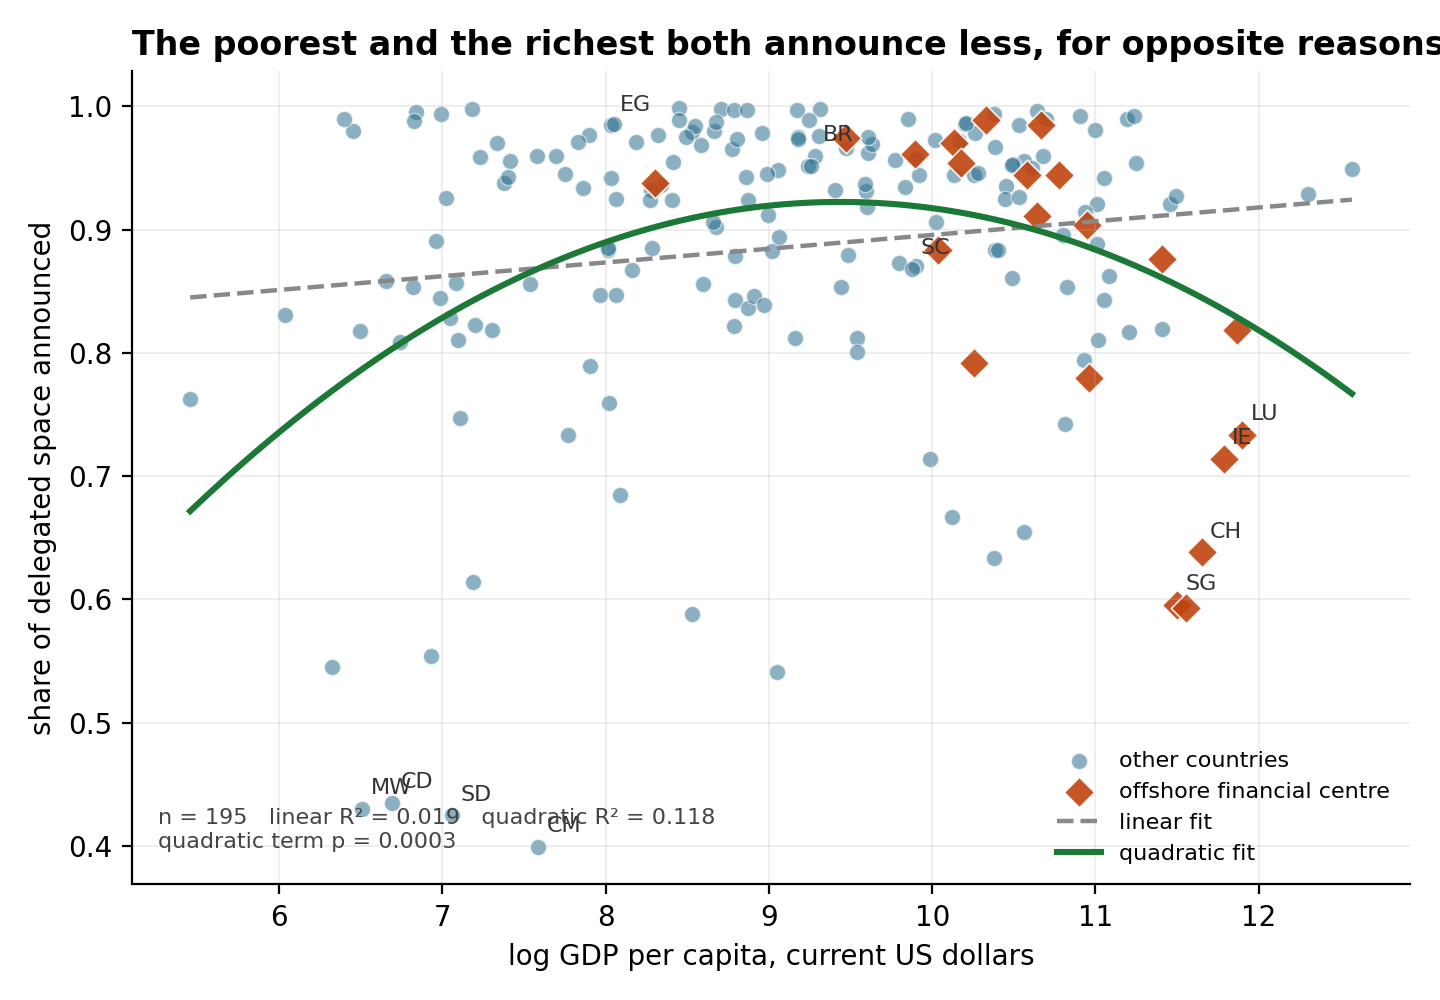
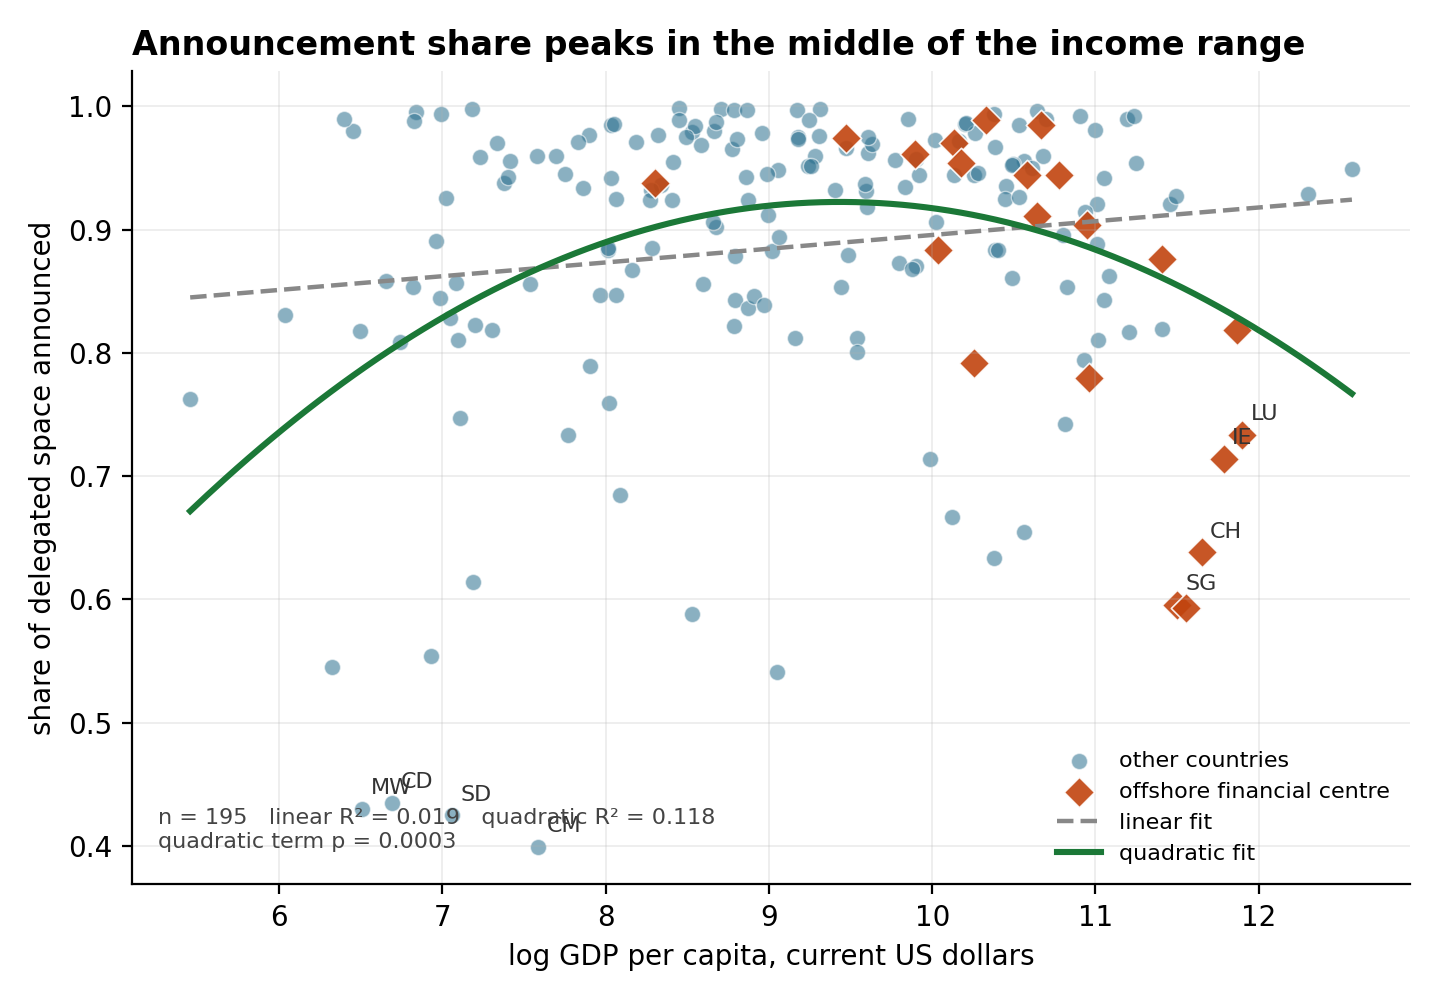
Add project figures

Changed region(s): [[0.0938, 0.031, 1.0, 0.062], [0.5625, 0.124, 0.5938, 0.155]]

diff --git a/src/make_figures.py b/src/make_figures.py
@@ -25,7 +25,7 @@ MIN_TRACES = 100
 
 LABEL_LOW_LATENCY = {"GB", "US", "CH", "DE", "NL", "SE", "JP", "KR"}
 LABEL_HIGH_LATENCY = {"CN", "MG", "MW", "CM", "MM", "BO", "NP", "ET"}
-LABEL_RATIO = {"SC", "SG", "CH", "LU", "IE", "CM", "SD", "MW", "CD", "EG", "BR"}
+LABEL_RATIO = {"SG", "CH", "LU", "IE", "CM", "SD", "MW", "CD"}
 
 plt.rcParams.update({
     "figure.dpi": 130,
@@ -116,7 +116,7 @@ def figure_ratio(df):
 
     ax.set_xlabel("log GDP per capita, current US dollars")
     ax.set_ylabel("share of delegated space announced")
-    ax.set_title("The poorest and the richest both announce less, for opposite reasons",
+    ax.set_title("Announcement share peaks in the middle of the income range",
                  loc="left", fontsize=12, weight="bold")
     ax.legend(frameon=False, fontsize=8, loc="lower right")
     ax.text(0.02, 0.04,
